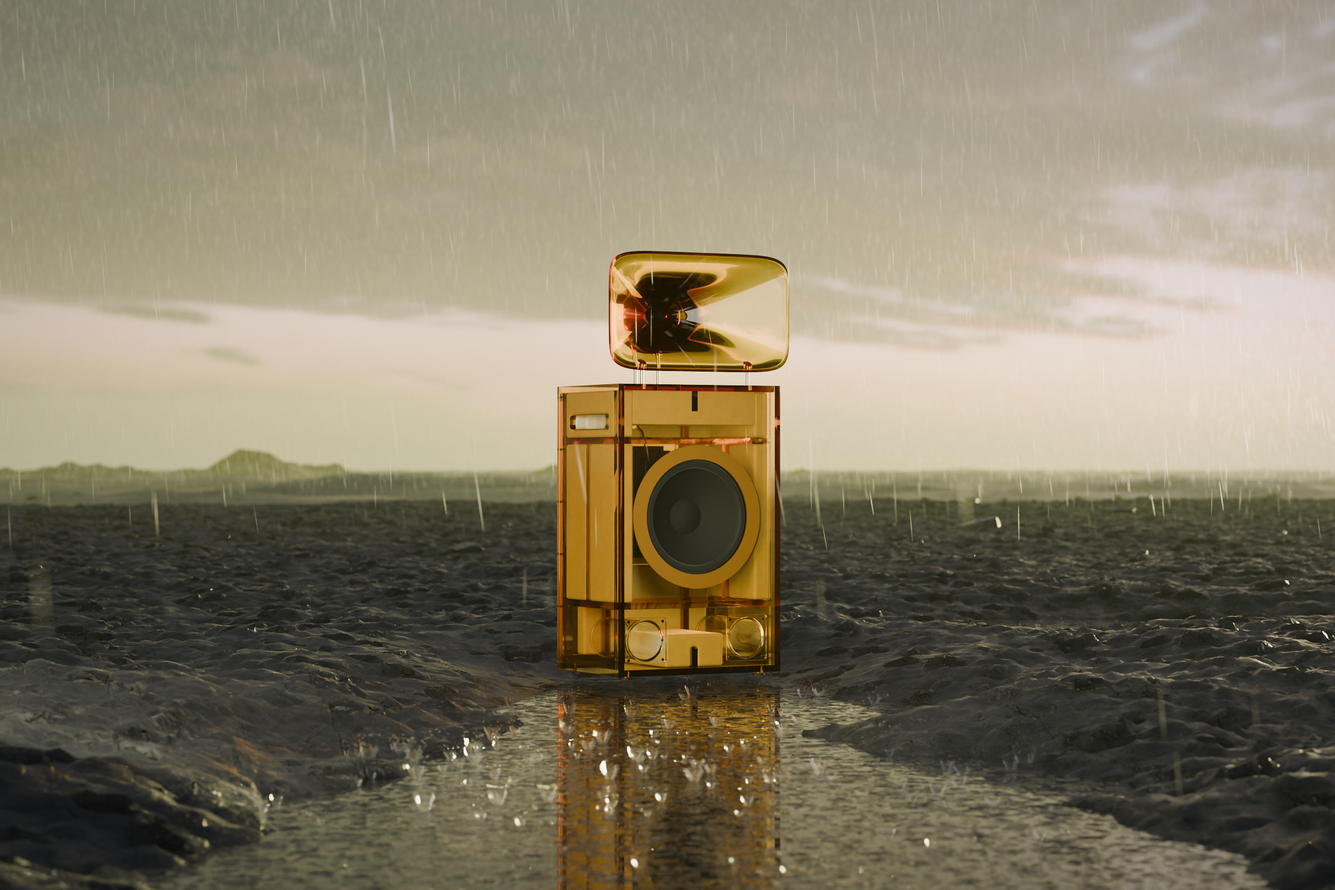
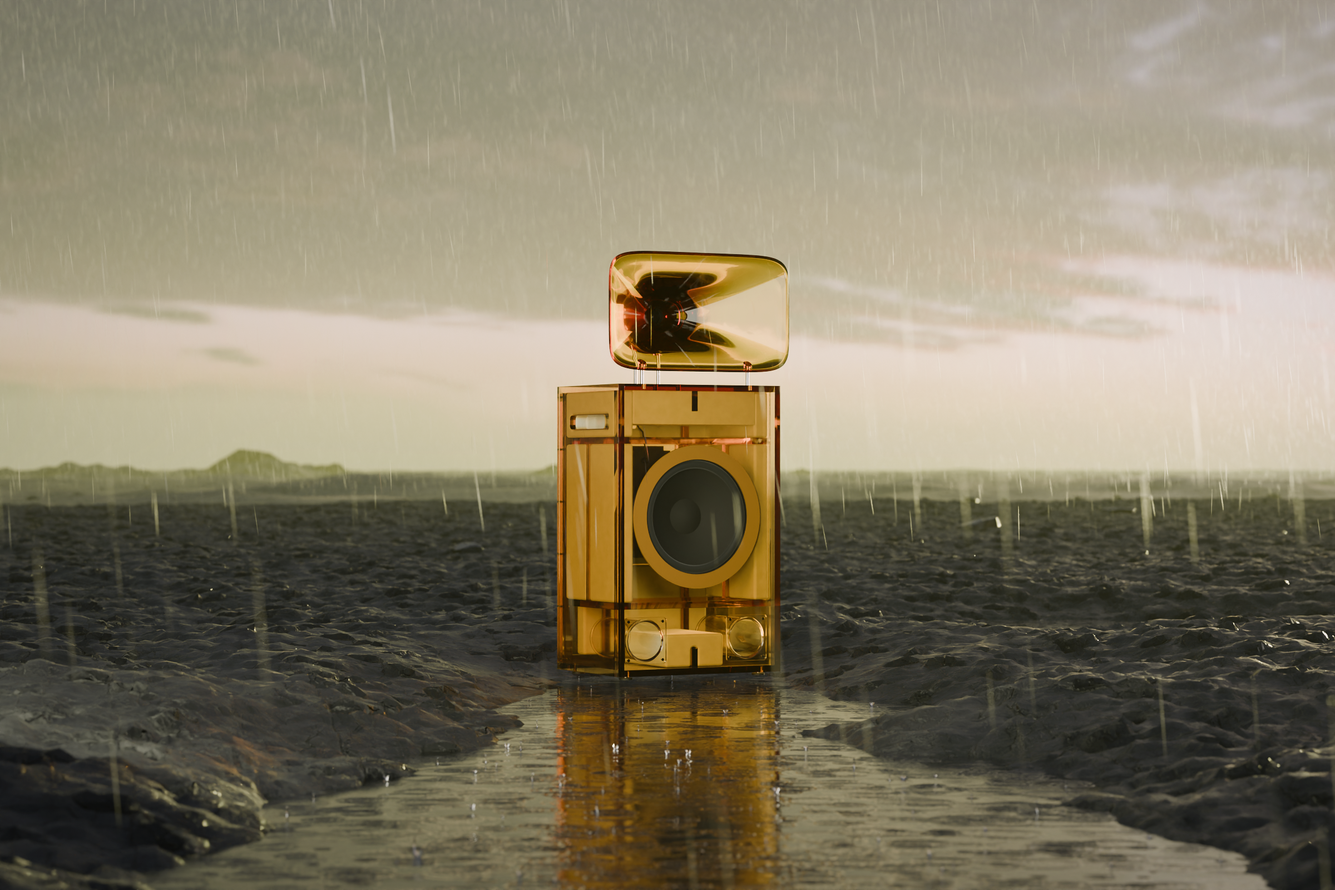
barkhorn round 31b, Acid B: the fixed-water landscape (interim, won its duel 6.8 to 6.0); near drops thinned; main's drivers merged
Claude-Session: https://claude.ai/code/session_01BUqoFgGLkF1xkw1gCNP99H

diff --git a/spinoffs/barkhorn/elements/acid_b.py b/spinoffs/barkhorn/elements/acid_b.py
@@ -70,8 +70,8 @@ def props(cam):
             thin_below=[1.0, 0.7],
             avoid=[[0.0, 0.0, 0.4]], seed=3),
         # a few drops close to the lens, far out of focus
-        ext('rain', camera=cam, count=150, near=2.5, far=5.0, length=[0.08, 0.18], radius=[0.0006, 0.001],
-            lean=[0.09, 0.02], z=[0.0, 30.0], opacity=[0.15, 0.35], scatter=0.7, rough=0.25, seed=13),
+        ext('rain', camera=cam, count=60, near=2.5, far=5.0, length=[0.06, 0.12], radius=[0.0005, 0.0008],
+            lean=[0.09, 0.02], z=[0.0, 30.0], opacity=[0.08, 0.2], scatter=0.7, rough=0.25, seed=13),
         # and the curtain beyond, too fine to count
         ext('rain', camera=cam, count=200000, near=15.0, far=120.0, length=[0.06, 0.18], radius=[0.0006, 0.0009],
             lean=[0.09, 0.02], z=[0.0, 30.0], opacity=0.08, scatter=0.9, rough=0.25, clear=0.1, seed=23),

diff --git a/spinoffs/barkhorn/elements/acid_b.md b/spinoffs/barkhorn/elements/acid_b.md
@@ -102,3 +102,8 @@ back), millimetres across, in clear water; the old splash pieces gone. A near ra
 The first full-size render of water 3 died at the end of its 93 minutes on the container's 14 GB memory limit (the
 ring map at 1.5 mm a pixel on top of 400,000 streaks). The map is now 2.5 mm a pixel (the crests still several pixels
 wide at that distance, the proof unchanged) and the far curtain 200,000 streaks.
+
+Duel, the fixed water against the first final (both old drivers): **6.8 to 6.0** for the fix
+(`critic-acid_b/duel-fixed-water.json`): "the splashes small, sparse and sharp, which matches the rain's scale"; against
+it, the near out-of-focus streaks read as faint vertical bars over the ground. `acid_b.png` is now that frame (interim,
+re-graded). For the re-render on main's new drivers the near layer is thinned (60 drops, fainter, shorter).
